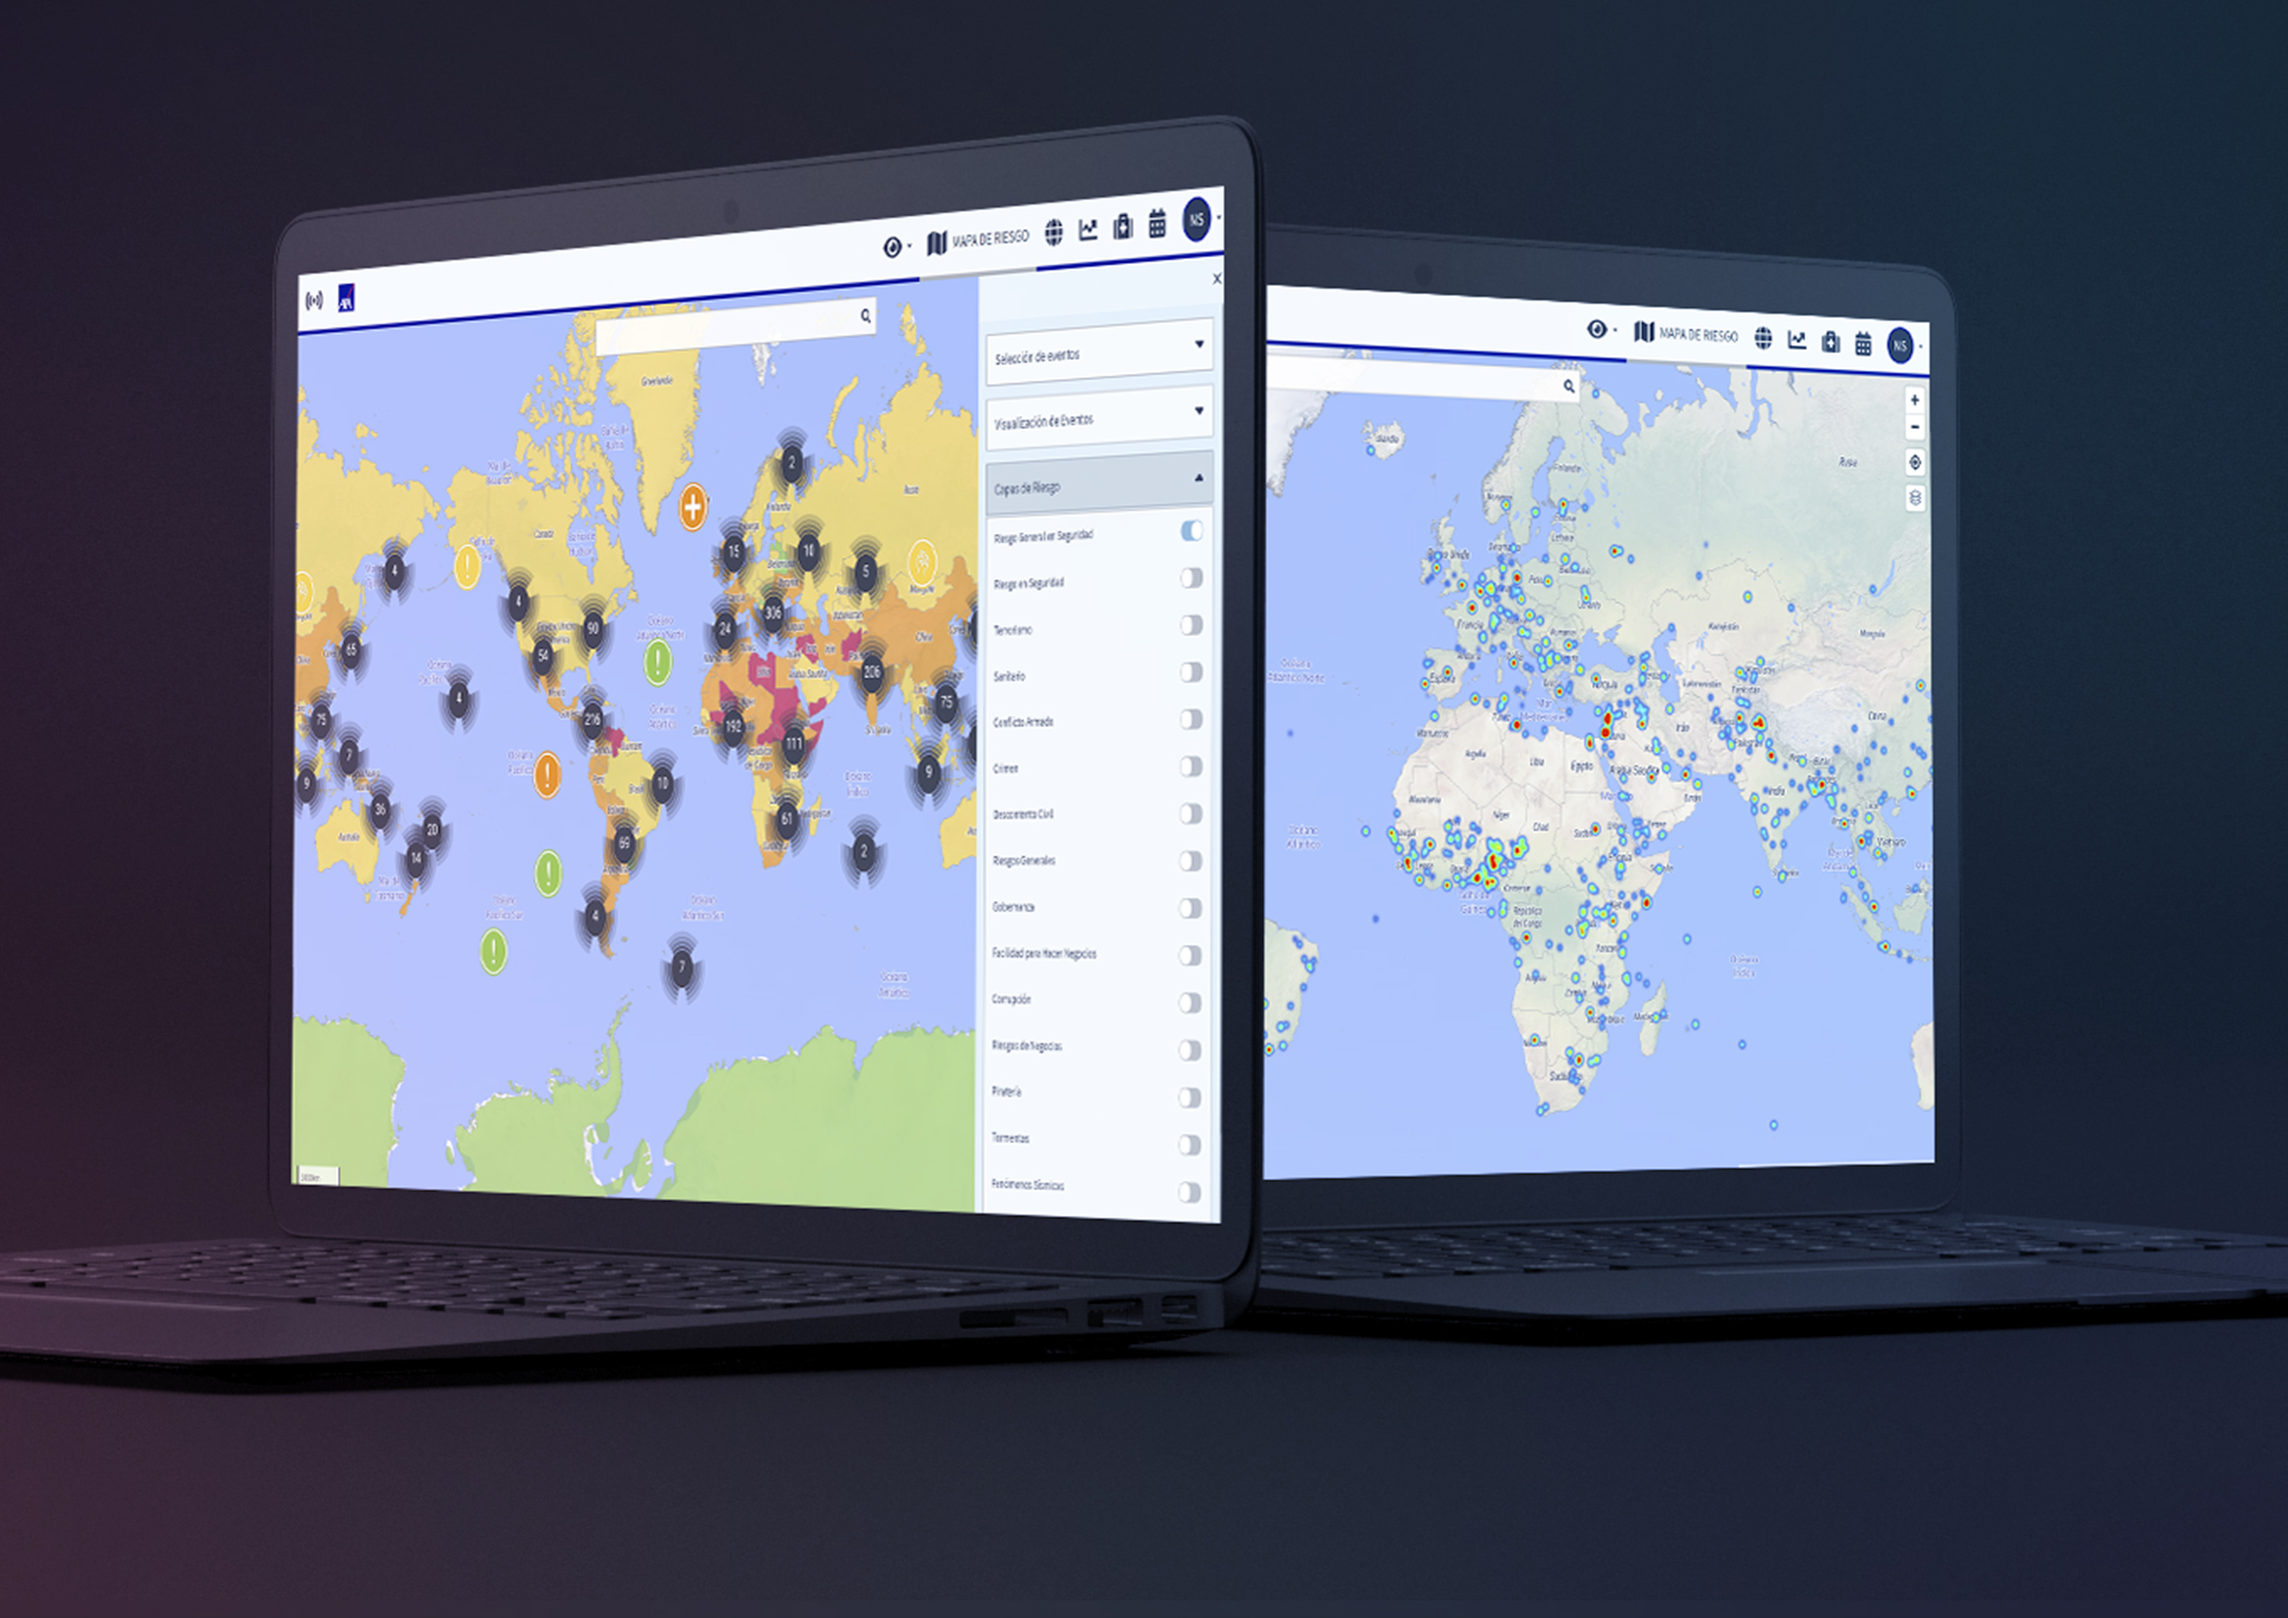
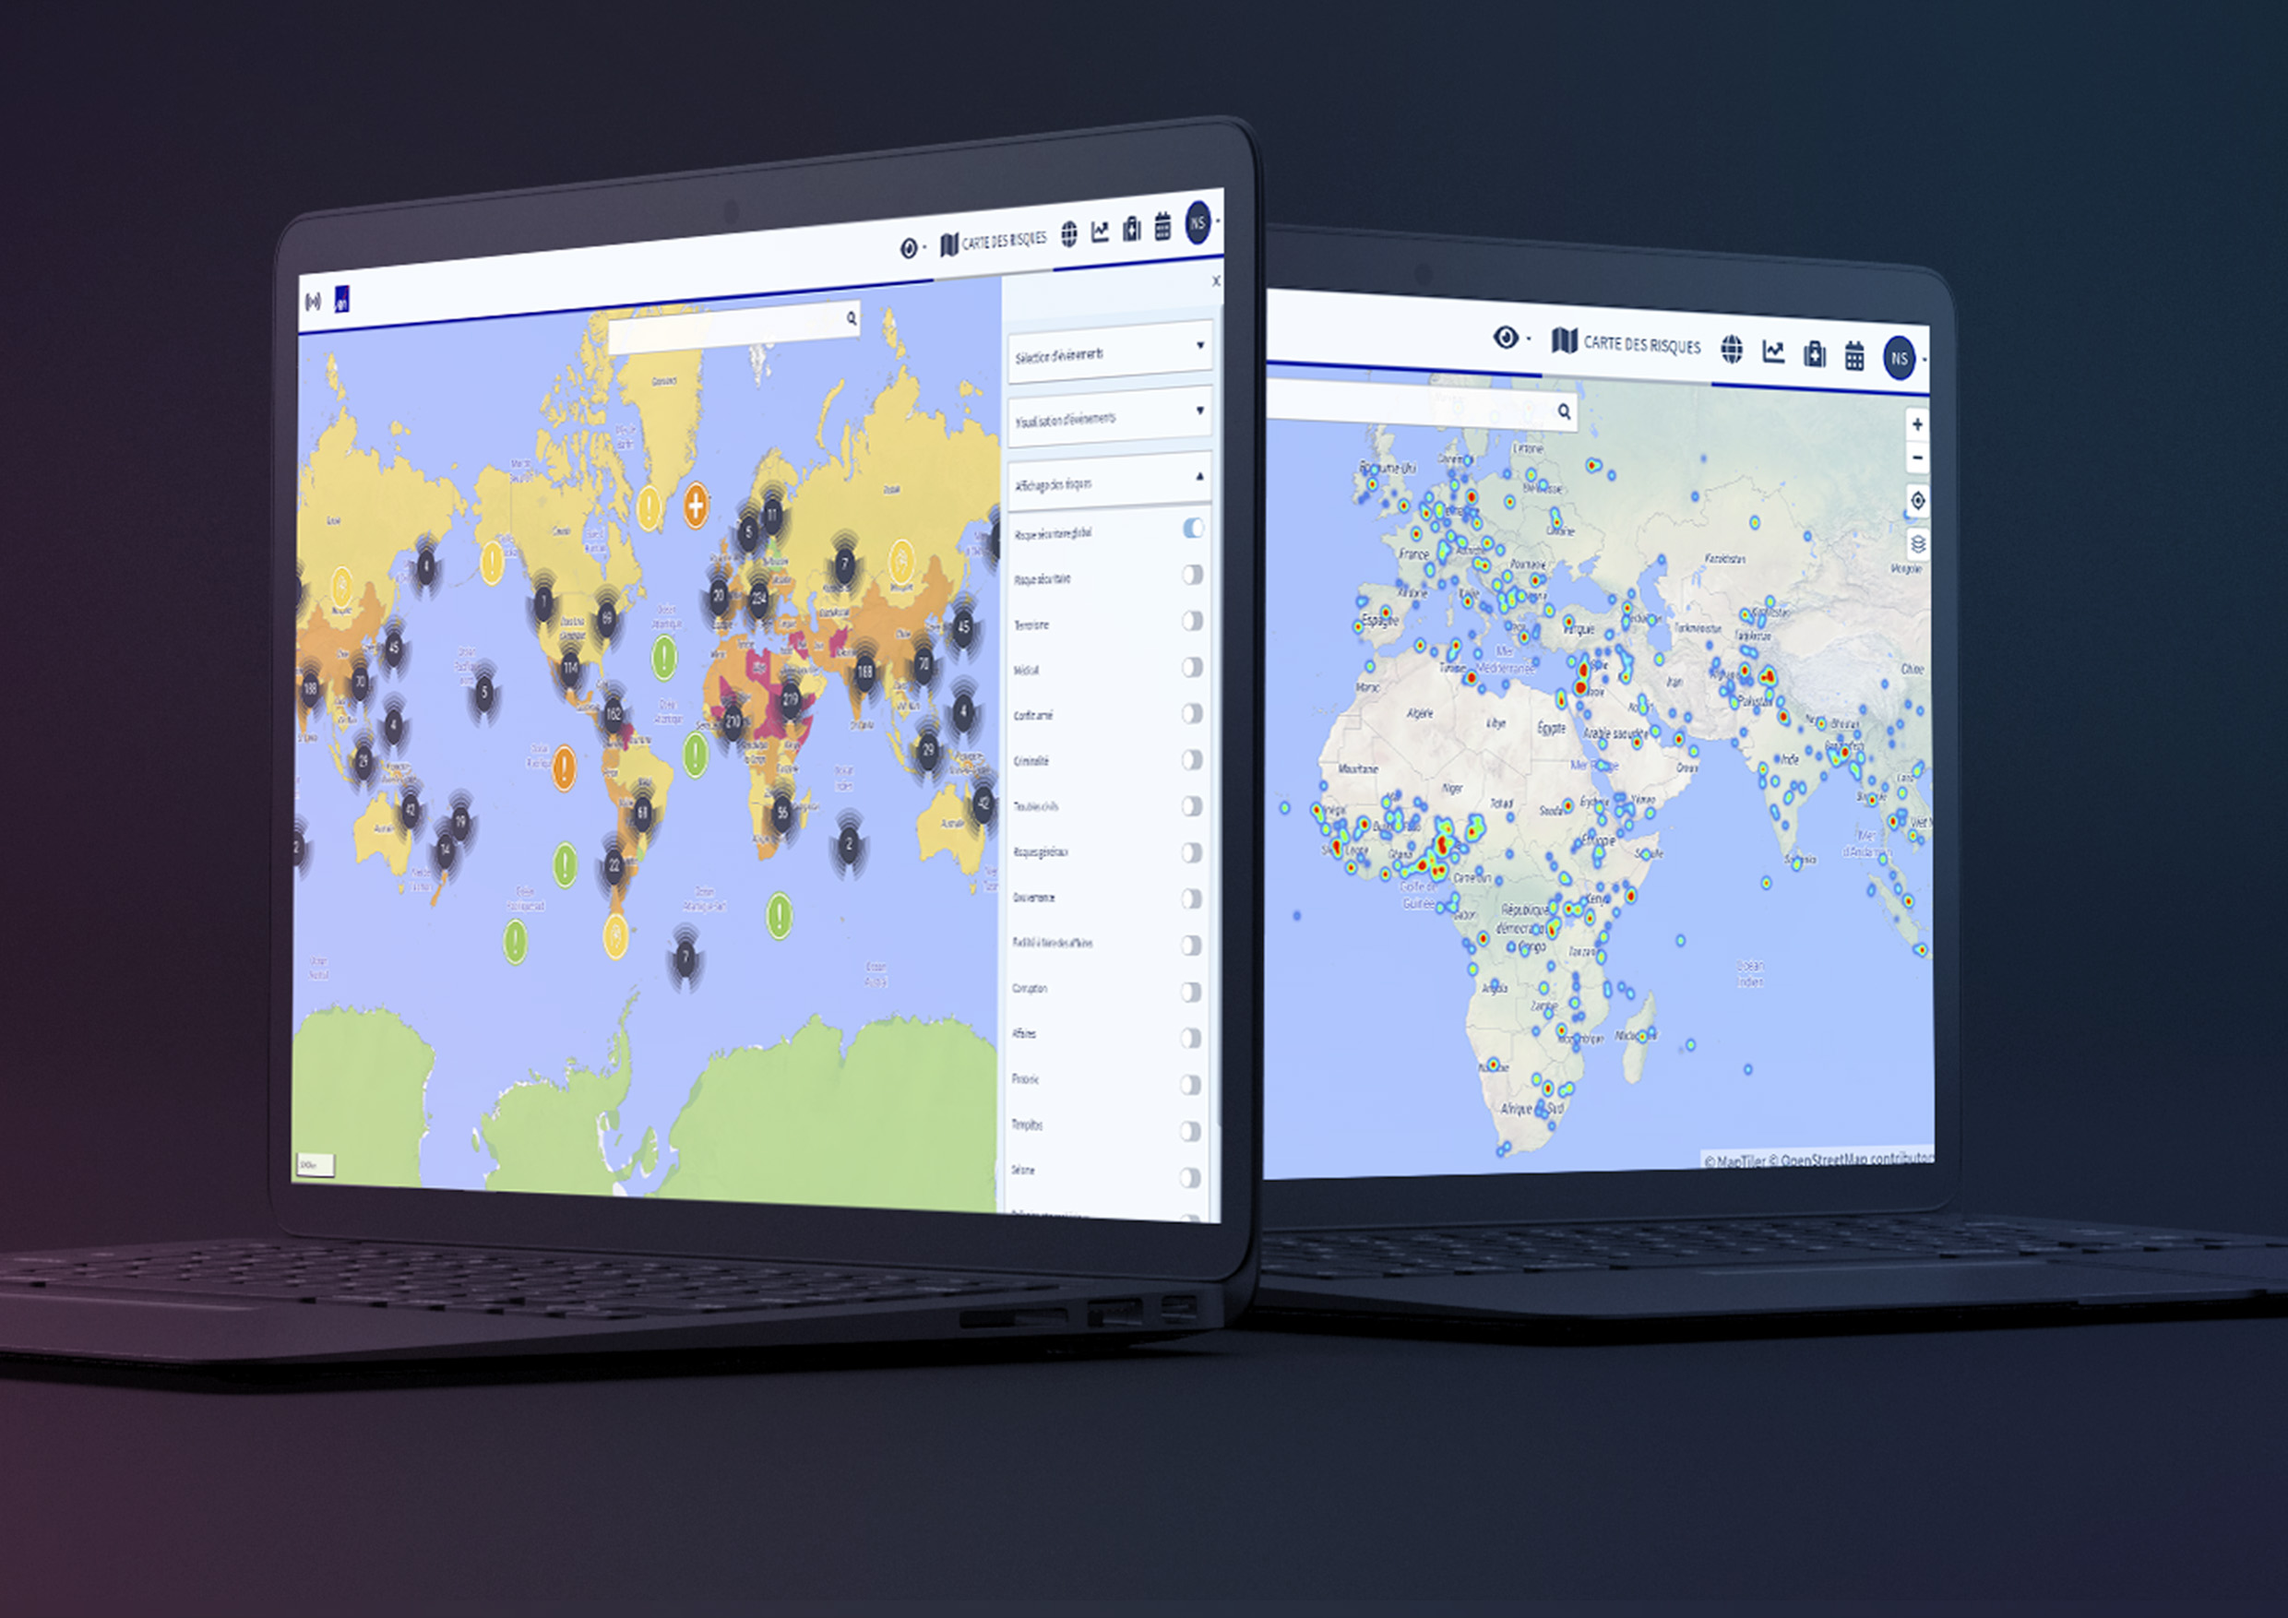
GitBook: [francais] one page and 10 assets modified

diff --git a/other/risk-map.md b/other/risk-map.md
@@ -4,13 +4,13 @@ description: TYPES ET CALQUES
 
 # Carte des risques
 
-![](../.gitbook/assets/riskmap%20%282%29.JPG)
+![](../.gitbook/assets/riskmap%20%283%29.JPG)
 
 ## Qu'est-ce que la carte des risques ?
 
 La carte des risques est la clé de voûte des informations sur les risques pays dynamiques de la plateforme.
 
-![](../.gitbook/assets/rm_img01%20%284%29.jpg)
+![](../.gitbook/assets/rm_img01%20%285%29.jpg)
 
 En zoomant sur la carte, on peut voir les cotes de risque EXOP même en dessous du niveau des pays. Il montre le risque des régions et des provinces, **jusqu'aux villes et même aux districts urbains**. En examinant de plus près les grandes villes, on peut voir des zones marquées en violet **qui présentent un risque plus élevé pour les voyageurs**. Vous pouvez choisir d'afficher différentes informations, **types de cartes** et **calques**.
 
